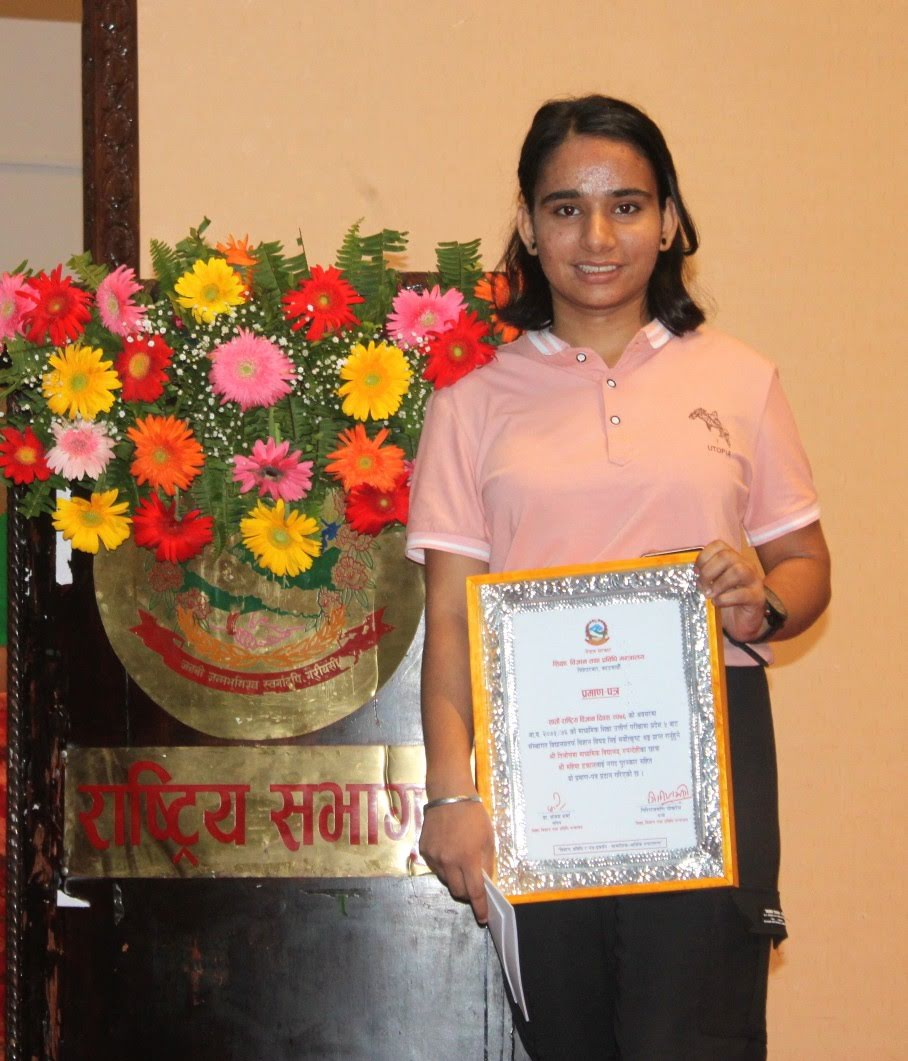
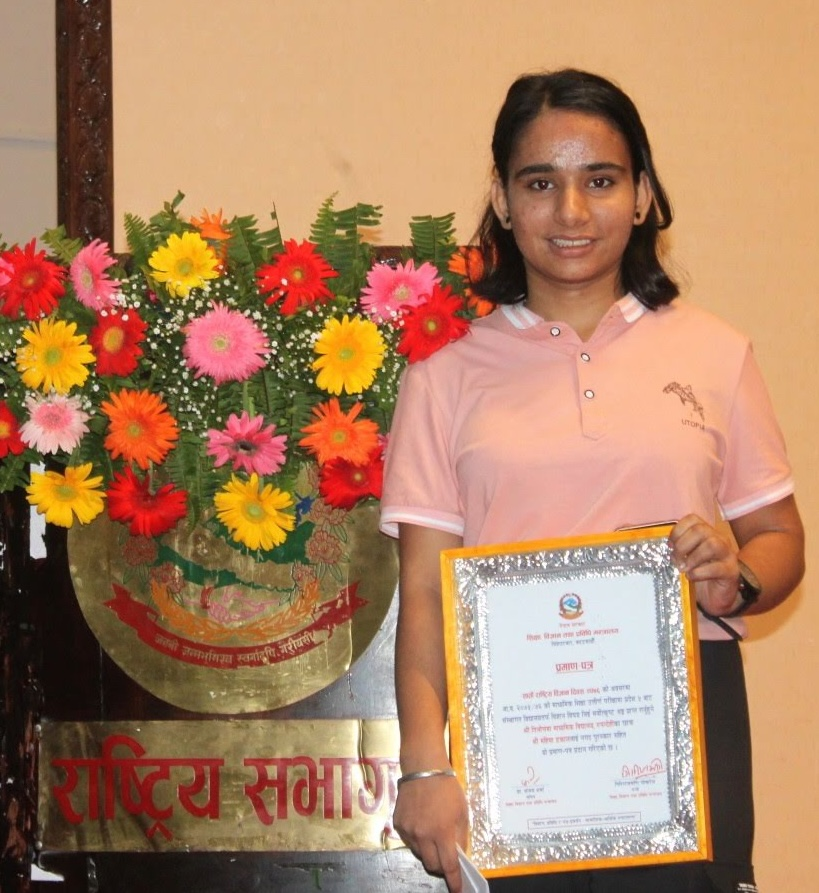
kept images in education for personal experience

diff --git a/index.html b/index.html
@@ -193,7 +193,7 @@
               >Second Semester . GPA 1.6
             </span>
             <img
-              class="edu-university-photo"
+              class="edu-university-photo edu-photo-dortmund"
               src="./v2/img/uni/dortmund_photo.jpeg"
               alt="Mahima at TU Dortmund University"
               loading="lazy"
@@ -216,7 +216,7 @@
               >Cum Laude · 82.44% · Top 1% graduate</span
             >
             <img
-              class="edu-university-photo"
+              class="edu-university-photo edu-photo-pulchowk"
               src="./v2/img/uni/pulchowk_campus.jpg"
               alt="Pulchowk Campus"
               loading="lazy"
@@ -237,7 +237,7 @@
               >Cum Laude · CGPA 3.86 · All Nepal Rank 2nd
             </span>
             <img
-              class="edu-university-photo"
+              class="edu-university-photo edu-photo-tilottama"
               src="./v2/img/uni/tilottama.JPG"
               alt="Tilottama Secondary School"
               loading="lazy"

diff --git a/v2/css/style.css b/v2/css/style.css
@@ -824,11 +824,28 @@ section {
   width: 108px;
   height: 118px;
   object-fit: cover;
-  object-position: center 22%;
+  object-position: center;
   border-radius: 12px;
   border: 3px solid rgba(255, 250, 247, 0.9);
   box-shadow: 0 8px 24px rgba(74, 25, 66, 0.12);
   transform: translateY(-50%) scale(1.1);
+  transition:
+    transform 0.3s ease,
+    box-shadow 0.3s ease;
+}
+.edu-photo-dortmund {
+  object-position: center 28%;
+}
+.edu-photo-pulchowk {
+  object-position: center 42%;
+}
+.edu-photo-tilottama {
+  object-position: center 32%;
+  opacity: 0.88;
+}
+.edu-card:hover .edu-university-photo {
+  box-shadow: 0 10px 28px rgba(74, 25, 66, 0.16);
+  transform: translateY(-50%) scale(1.13);
 }
 .edu-institution-mark {
   display: grid;
